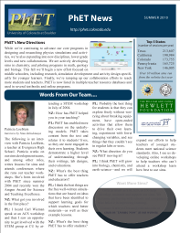
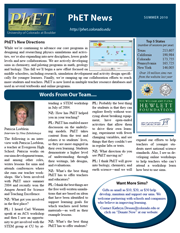
website: updated thumbnail for newsletter

Changed region(s): [[0.0, 0.0, 1.0, 1.0], [0.3611, 0.0601, 0.6389, 0.0901], [0.8056, 0.0601, 0.9444, 0.0901]]

diff --git a/src/java/edu/colorado/phet/website/content/about/AboutNewsPanel.java b/src/java/edu/colorado/phet/website/content/about/AboutNewsPanel.java
@@ -15,7 +15,7 @@ public class AboutNewsPanel extends PhetPanel implements CacheableUrlStaticPanel
     public AboutNewsPanel( String id, PageContext context ) {
         super( id, context );
 
-        add( new StaticImage( "newsletter-screenshot", Images.NEWSLETTER_SUMMER_09, "Screenshot of the 2009 PhET newsletter" ) );
+        add( new StaticImage( "newsletter-screenshot", Images.NEWSLETTER_SUMMER_10, "Screenshot of the 2009 PhET newsletter" ) );
 
         add( new NewsChangelogPanel( "news-changelog-panel", context ) );
     }

diff --git a/src/java/edu/colorado/phet/website/constants/Images.java b/src/java/edu/colorado/phet/website/constants/Images.java
@@ -18,6 +18,7 @@ public class Images {
     public static final String CLASSROOM_TESTED_SMALL = "/images/ratings/classroom-tested-small.png";
 
     public static final String NEWSLETTER_SUMMER_09 = "/images/phet_newsletter_summer_09_thumbnail.png";
+    public static final String NEWSLETTER_SUMMER_10 = "/images/phet_newsletter_summer_10_thumbnail.png";
 
     public static final String PEARSON_LOGO = "/images/support/pearson.png";
 
